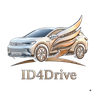
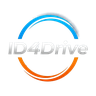
v08.08.44 — оновлено лого і значок сповіщень

diff --git a/src/version.js b/src/version.js
@@ -1,1 +1,1 @@
-export const APP_VERSION = "v08.08.43";
+export const APP_VERSION = "v08.08.44";
